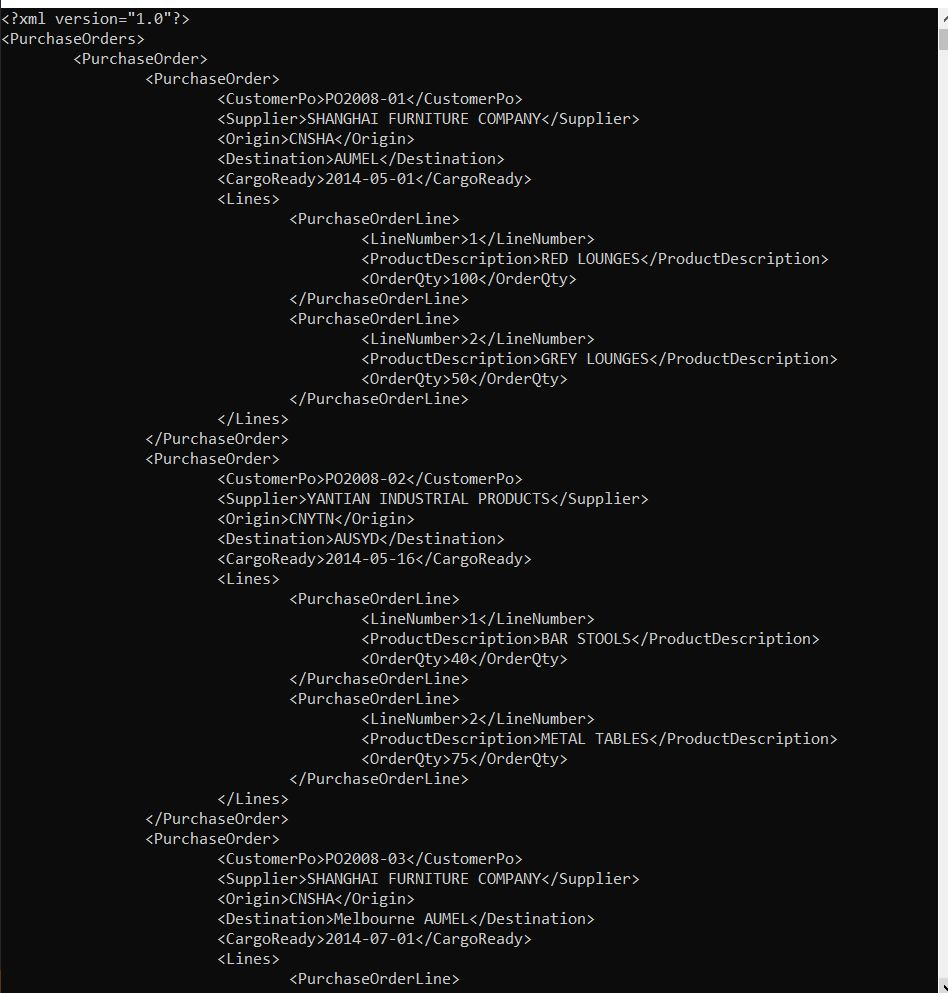
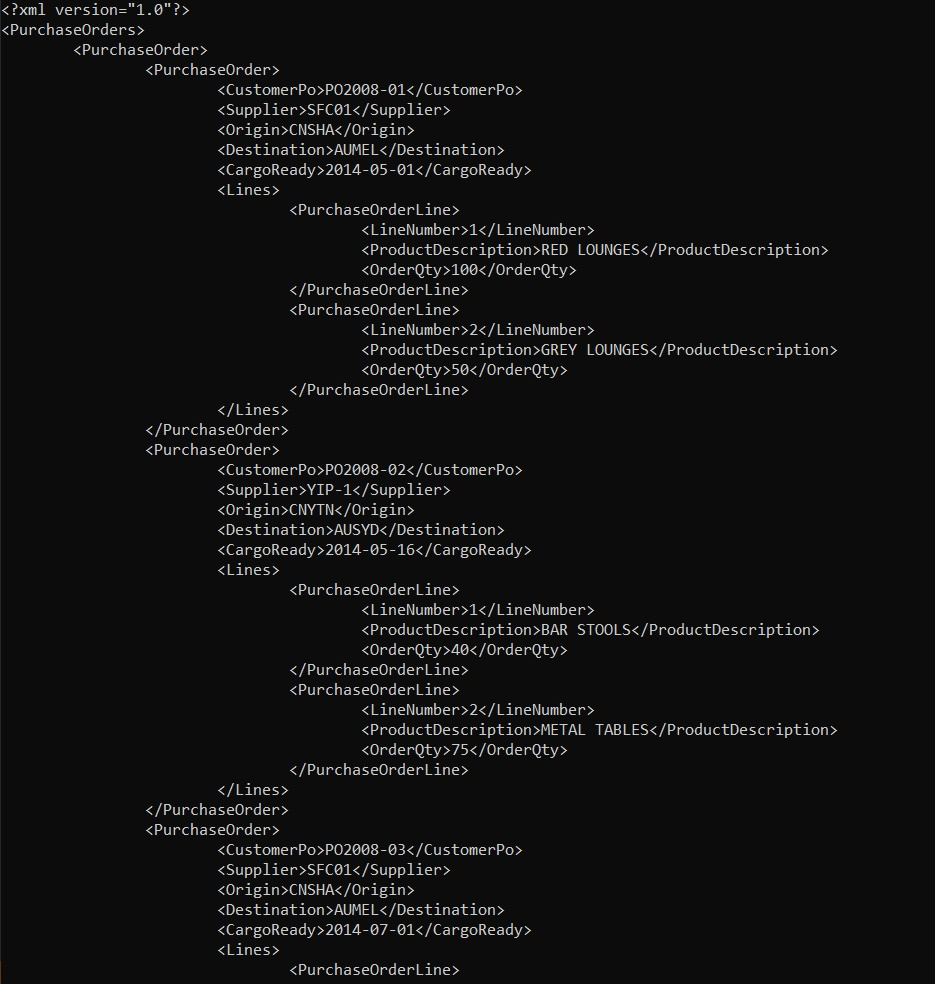
added result return types.

Changed region(s): [[0.0, 0.0, 1.0, 1.0], [0.1551, 0.7927, 0.6513, 1.0]]

diff --git a/MondialeVGL.OrderProcessor.UnitTests/OrderRepositoryTests.cs b/MondialeVGL.OrderProcessor.UnitTests/OrderRepositoryTests.cs
@@ -1,8 +1,6 @@
 using Microsoft.Extensions.Configuration;
 using Microsoft.Extensions.DependencyInjection;
 using MondialeVGL.OrderProcessor.Repository;
-using System;
-using System.Collections.Generic;
 using System.Linq;
 using System.Threading.Tasks;
 using Xunit;
@@ -36,36 +34,29 @@ namespace MondialeVGL.OrderProcessor.UnitTests
 
             var orders = await repository.GetOrdersAsync();
 
-            Assert.Equal("PO No: PO2008-01, No of Details: 2", $"PO No: {orders.Orders.ElementAt(0).Header.PurchaseOrderNumber}, No of Details: {orders.Orders.ElementAt(0).Details.Count}");
-            Assert.Equal("PO No: PO2008-02, No of Details: 2", $"PO No: {orders.Orders.ElementAt(1).Header.PurchaseOrderNumber}, No of Details: {orders.Orders.ElementAt(1).Details.Count}");
-            Assert.Equal("PO No: PO2008-03, No of Details: 1", $"PO No: {orders.Orders.ElementAt(2).Header.PurchaseOrderNumber}, No of Details: {orders.Orders.ElementAt(2).Details.Count}"); ;
-            Assert.Equal("PO No: PO2008-04, No of Details: 3", $"PO No: {orders.Orders.ElementAt(3).Header.PurchaseOrderNumber}, No of Details: {orders.Orders.ElementAt(3).Details.Count}");
+            Assert.Equal(4, orders.Orders.Orders.Count);
+            Assert.Equal("PO2008-01", orders.Orders.Orders.ElementAt(0).Header.PurchaseOrderNumber);
+            Assert.Equal(2, orders.Orders.Orders.ElementAt(0).Details.Count);
+            Assert.Equal("PO2008-02", orders.Orders.Orders.ElementAt(1).Header.PurchaseOrderNumber);
+            Assert.Equal(2, orders.Orders.Orders.ElementAt(1).Details.Count);
+            Assert.Equal("PO2008-03", orders.Orders.Orders.ElementAt(2).Header.PurchaseOrderNumber);
+            Assert.Equal(1, orders.Orders.Orders.ElementAt(2).Details.Count);
+            Assert.Equal("PO2008-04", orders.Orders.Orders.ElementAt(3).Header.PurchaseOrderNumber);
+            Assert.Equal(3, orders.Orders.Orders.ElementAt(3).Details.Count);
         }
 
         [Fact]
         public async Task GetOrdersAsync_BadInputData_Failure()
         {
-            var exceptions = new List<Exception>();
-
-            OrderRepository.OnReadError += async exception =>
-            {
-                lock(this)
-                {
-                    exceptions.Add(exception);
-                }               
-
-                await Task.CompletedTask;
-            };
-
             var repository = new OrderRepository(@".\Interface Data - Bad Data.csv");
 
-            var orders = await repository.GetOrdersAsync();
+            var ordersResult = await repository.GetOrdersAsync();
 
-            Assert.Equal(2, orders.Orders.Count);
-            Assert.Equal(3, exceptions.Count);
-            Assert.Equal("String '*/05/14' was not recognized as a valid DateTime.", exceptions.ElementAt(0).InnerException.Message);
-            Assert.Equal("*H is an invalid record type. Valid values [H|D].", exceptions.ElementAt(1).Message);
-            Assert.Contains(@"D,PO2008-04,1,GREEN BEDS,*&,", exceptions.ElementAt(2).Message);
+            Assert.Equal(2, ordersResult.Orders.Orders.Count);
+            Assert.Equal(3, ordersResult.Errors.Count);
+            Assert.Equal("String '*/05/14' was not recognized as a valid DateTime.", ordersResult.Errors.ElementAt(0).InnerException.Message);
+            Assert.Equal("*H is an invalid record type. Valid values [H|D].", ordersResult.Errors.ElementAt(1).Message);
+            Assert.Contains(@"D,PO2008-04,1,GREEN BEDS,*&,", ordersResult.Errors.ElementAt(2).Message);
         }
     }
 }

diff --git a/MondialeVGL.OrderProcessor.Repository/OrderRepository.cs b/MondialeVGL.OrderProcessor.Repository/OrderRepository.cs
@@ -9,23 +9,20 @@ using System.Threading.Tasks;
 
 namespace MondialeVGL.OrderProcessor.Repository
 {
-    public class OrderRepository : IOrderRepository
+    public class OrderRepository : IOrderRepository, IAsyncDisposable
     {
         private readonly string _orderFilePath;
 
-        public static event Func<Exception, Task> OnReadError;
+        public event Func<Exception, Task> OnReadError;
 
         public OrderRepository(string orderFilePath)
         {
             _orderFilePath = orderFilePath;
         }
 
-        public async Task<OrderCollectionEntity> GetOrdersAsync()
+        public async Task<OrdersEntityResult> GetOrdersAsync()
         {
-            var orders = new OrderCollectionEntity
-            {
-                Orders = new List<OrderEntity>()
-            };            
+            var ordersResult = new OrdersEntityResult();
 
             var config = new CsvConfiguration(CultureInfo.InvariantCulture)
             {
@@ -55,6 +52,7 @@ namespace MondialeVGL.OrderProcessor.Repository
                     }
                     catch(Exception ex)
                     {
+                        ordersResult.Errors.Add(ex);
                         OnReadError?.Invoke(ex);
                         isNewOrder = false;
                         currentOrder = null;
@@ -65,7 +63,7 @@ namespace MondialeVGL.OrderProcessor.Repository
                     {
                         if (currentOrder != null)
                         {
-                            orders.Orders.Add(currentOrder);
+                            ordersResult.Orders.Orders.Add(currentOrder);
                         }
 
                         currentOrder = new OrderEntity();
@@ -79,6 +77,7 @@ namespace MondialeVGL.OrderProcessor.Repository
                         }
                         catch(Exception ex)
                         {
+                            ordersResult.Errors.Add(ex);
                             OnReadError?.Invoke(ex);
                             currentOrder = null;
                             continue;
@@ -94,6 +93,7 @@ namespace MondialeVGL.OrderProcessor.Repository
                         }
                         catch (Exception ex)
                         {
+                            ordersResult.Errors.Add(ex);
                             OnReadError?.Invoke(ex);
                             continue;
                         }                      
@@ -102,11 +102,18 @@ namespace MondialeVGL.OrderProcessor.Repository
 
                 if (currentOrder != null)
                 {
-                    orders.Orders.Add(currentOrder);
+                    ordersResult.Orders.Orders.Add(currentOrder);
                 }
             }
 
-            return orders;
+            return ordersResult;
+        }
+
+        public async ValueTask DisposeAsync()
+        {
+            OnReadError = null;
+
+            await Task.CompletedTask;
         }
     }
 }

diff --git a/MondialeVGL.OrderProcessor.Services/MappingService.cs b/MondialeVGL.OrderProcessor.Services/MappingService.cs
@@ -12,13 +12,15 @@ namespace MondialeVGL.OrderProcessor.Services
         {
             var config = new MapperConfiguration(cfg =>
             {
-                cfg.CreateMap<OrderCollectionEntity, OrderCollectionModel>();
+                cfg.CreateMap<OrderEntityCollection, OrderModelCollection>();
 
                 cfg.CreateMap<OrderEntity, OrderModel>()
                     .ForMember(d => d.PurchaseOrderNumber, src => src.MapFrom(s => s.Header.PurchaseOrderNumber))
-                    .ForMember(d => d.Supplier, src => src.MapFrom(s => s.Header.Supplier))
+                    .ForMember(d => d.Supplier, src => src.MapFrom(s => GetSupplierCode(s.Header.Supplier)))
                     .ForMember(d => d.Origin, src => src.MapFrom(s => s.Header.Origin))
-                    .ForMember(d => d.Destination, src => src.MapFrom(s => string.IsNullOrEmpty(s.Header.Destination) ? GetDestination(s.Header.Supplier) : s.Header.Destination))
+                    .ForMember(d => d.Destination, src => src.MapFrom(s => string.IsNullOrEmpty(s.Header.Destination) ? 
+                                                                            GetDestinationBySupplierCode(s.Header.Supplier) :
+                                                                            s.Header.Destination))
                     .ForMember(d => d.CargoReady, src => src.MapFrom(s => s.Header.CargoReadyDate.ToString("yyyy-MM-dd")))
                     .ForMember(d => d.Lines, src => src.MapFrom(s => s.Details));
 
@@ -38,12 +40,22 @@ namespace MondialeVGL.OrderProcessor.Services
             return _mapper.Map<TDestination>(source);
         }
 
-        private static string GetDestination(string supplier)
+        private static string GetSupplierCode(string supplier)
         {
             return supplier switch
             {
-                "SHANGHAI FURNITURE COMPANY" => "Melbourne AUMEL",
-                "YANTIAN INDUSTRIAL PRODUCTS" => "Sydney AUSYD",
+                "SHANGHAI FURNITURE COMPANY" => "SFC01",
+                "YANTIAN INDUSTRIAL PRODUCTS" => "YIP-1",
+                _ => null
+            };
+        }
+
+        private static string GetDestinationBySupplierCode(string supplier)
+        {
+            return supplier switch
+            {
+                "SHANGHAI FURNITURE COMPANY" => "AUMEL",
+                "YANTIAN INDUSTRIAL PRODUCTS" => "AUSYD",
                 _ => null
             };
         }

diff --git a/MondialeVGL.OrderProcessor.Services/OrderService.cs b/MondialeVGL.OrderProcessor.Services/OrderService.cs
@@ -11,14 +11,14 @@ namespace MondialeVGL.OrderProcessor.Services
         private readonly IOrderRepository _orderRepository;
         private readonly IMappingService _mappingService;
 
-        public static event Func<Exception, Task> OnReadError;
+        public event Func<Exception, Task> OnReadError;
 
         public OrderService(IOrderRepository orderRepository, IMappingService mappingService)
         {
             _orderRepository = orderRepository;
             _mappingService = mappingService;
 
-            OrderRepository.OnReadError += OrderRepository_OnReadError;
+            _orderRepository.OnReadError += OrderRepository_OnReadError;
         }
 
         private async Task OrderRepository_OnReadError(Exception arg)
@@ -28,18 +28,26 @@ namespace MondialeVGL.OrderProcessor.Services
             await Task.CompletedTask;
         }
 
-        public async Task<string> GetOrdersXmlAsync()
+        public async Task<OrdersResult> GetOrdersXmlAsync()
         {
-            var orderEntities = await _orderRepository.GetOrdersAsync();
+            var ordersEntityResult = await _orderRepository.GetOrdersAsync();
 
-            var orderModels = _mappingService.Map<OrderCollectionEntity, OrderCollectionModel>(orderEntities);
+            var orderModels = _mappingService.Map<OrderEntityCollection, OrderModelCollection>(ordersEntityResult.Orders);
 
-            return orderModels.Serialize();
+            var ordersXml = orderModels.Serialize();
+
+            var ordersResult = new OrdersResult
+            {
+                OrdersXml = ordersXml,
+                Errors = ordersEntityResult.Errors
+            };
+
+            return ordersResult;
         }
 
         public async ValueTask DisposeAsync()
         {
-            OrderRepository.OnReadError -= OrderRepository_OnReadError;
+            _orderRepository.OnReadError -= OrderRepository_OnReadError;
 
             await Task.CompletedTask;
         }

diff --git a/MondialeVGL.OrderProcessor/Program.cs b/MondialeVGL.OrderProcessor/Program.cs
@@ -25,19 +25,22 @@ namespace MondialeVGL.OrderProcessor
 
                 try
                 {
-                    OrderService.OnReadError += OrderService_OnReadError;
-
                     var orderService = serviceProvider.GetRequiredService<IOrderService>();
 
                     //Process orders
-                    var ordersXml = await orderService.GetOrdersXmlAsync();
+                    var ordersResult = await orderService.GetOrdersXmlAsync();
 
-                    Console.WriteLine(ordersXml);
+                    //Print Errors
+                    foreach(var error in ordersResult.Errors)
+                    {
+                        Console.WriteLine($"Error: {error.InnerException?.Message ?? error.Message}\n");
+                    }
+
+                    //Print Orders Xml
+                    Console.WriteLine(ordersResult.OrdersXml);
                 }
                 catch (Exception ex)
                 {
-                    OrderService.OnReadError -= OrderService_OnReadError;
-
                     Console.WriteLine(ex.Message);
                 }
 
@@ -49,13 +52,6 @@ namespace MondialeVGL.OrderProcessor
 
                 Console.ReadLine();
             }
-        }
-
-        private static async Task OrderService_OnReadError(Exception arg)
-        {
-            Console.WriteLine($"Error: {arg.InnerException?.Message??arg.Message}\n");
-
-            await Task.CompletedTask;
         }
     }
 }

diff --git a/MondialeVGL.OrderProcessor.Repository/Entities/OrdersEntityResult.cs b/MondialeVGL.OrderProcessor.Repository/Entities/OrdersEntityResult.cs
@@ -1,0 +1,22 @@
+using System;
+using System.Collections.Generic;
+
+namespace MondialeVGL.OrderProcessor.Repository.Entities
+{
+    public class OrdersEntityResult
+    {
+        public OrderEntityCollection Orders { get; set; }
+
+        public ICollection<Exception> Errors { get; set; }
+
+        public OrdersEntityResult()
+        {
+            this.Orders = new OrderEntityCollection
+            {
+                Orders = new List<OrderEntity>()
+            };
+
+            this.Errors = new List<Exception>();
+        }
+    }
+}

diff --git a/MondialeVGL.OrderProcessor.Services/IOrderService.cs b/MondialeVGL.OrderProcessor.Services/IOrderService.cs
@@ -1,9 +1,12 @@
-using System.Threading.Tasks;
+using MondialeVGL.OrderProcessor.Services.Models;
+using System;
+using System.Threading.Tasks;
 
 namespace MondialeVGL.OrderProcessor.Services
 {
     public interface IOrderService
     {
-        Task<string> GetOrdersXmlAsync();
+        Task<OrdersResult> GetOrdersXmlAsync();
+        event Func<Exception, Task> OnReadError;
     }
 }

diff --git a/MondialeVGL.OrderProcessor.Repository/IOrderRepository.cs b/MondialeVGL.OrderProcessor.Repository/IOrderRepository.cs
@@ -1,10 +1,12 @@
 using MondialeVGL.OrderProcessor.Repository.Entities;
+using System;
 using System.Threading.Tasks;
 
 namespace MondialeVGL.OrderProcessor.Repository
 {
     public interface IOrderRepository
     {
-        Task<OrderCollectionEntity> GetOrdersAsync();
+        Task<OrdersEntityResult> GetOrdersAsync();
+        event Func<Exception, Task> OnReadError;
     }
 }

diff --git a/MondialeVGL.OrderProcessor.Services/Models/OrderModelCollection.cs b/MondialeVGL.OrderProcessor.Services/Models/OrderModelCollection.cs
@@ -9,7 +9,7 @@ namespace MondialeVGL.OrderProcessor.Services.Models
 {
     [Serializable]
     [XmlType(TypeName = "PurchaseOrders")]
-    public class OrderCollectionModel
+    public class OrderModelCollection
     {
         [XmlArray("PurchaseOrder")]
         [XmlArrayItem("PurchaseOrder")]

diff --git a/MondialeVGL.OrderProcessor.Services/Models/OrdersResult.cs b/MondialeVGL.OrderProcessor.Services/Models/OrdersResult.cs
@@ -1,0 +1,11 @@
+using System;
+using System.Collections.Generic;
+
+namespace MondialeVGL.OrderProcessor.Services.Models
+{
+    public class OrdersResult
+    {
+        public string OrdersXml { get; set; }
+        public IEnumerable<Exception> Errors { get; set; }
+    }
+}

diff --git a/MondialeVGL.OrderProcessor.Repository/Entities/OrderEntityCollection.cs b/MondialeVGL.OrderProcessor.Repository/Entities/OrderEntityCollection.cs
@@ -2,7 +2,7 @@
 
 namespace MondialeVGL.OrderProcessor.Repository.Entities
 {
-    public class OrderCollectionEntity
+    public class OrderEntityCollection
     {
         public ICollection<OrderEntity> Orders { get; set; }
     }

diff --git a/README.md b/README.md
@@ -19,7 +19,7 @@ The solution is a .Net Core Console app.
 There are various Entities in this layer.
 These entities model the input data in the csv file.
 
-The **OrderRepository** reads the csv file using CsvHelper.
+The **OrderRepository** reads the csv file using **CsvHelper**.
 
 ![Repository Layer](Docs/RepositoryLayer.jpg)
 
